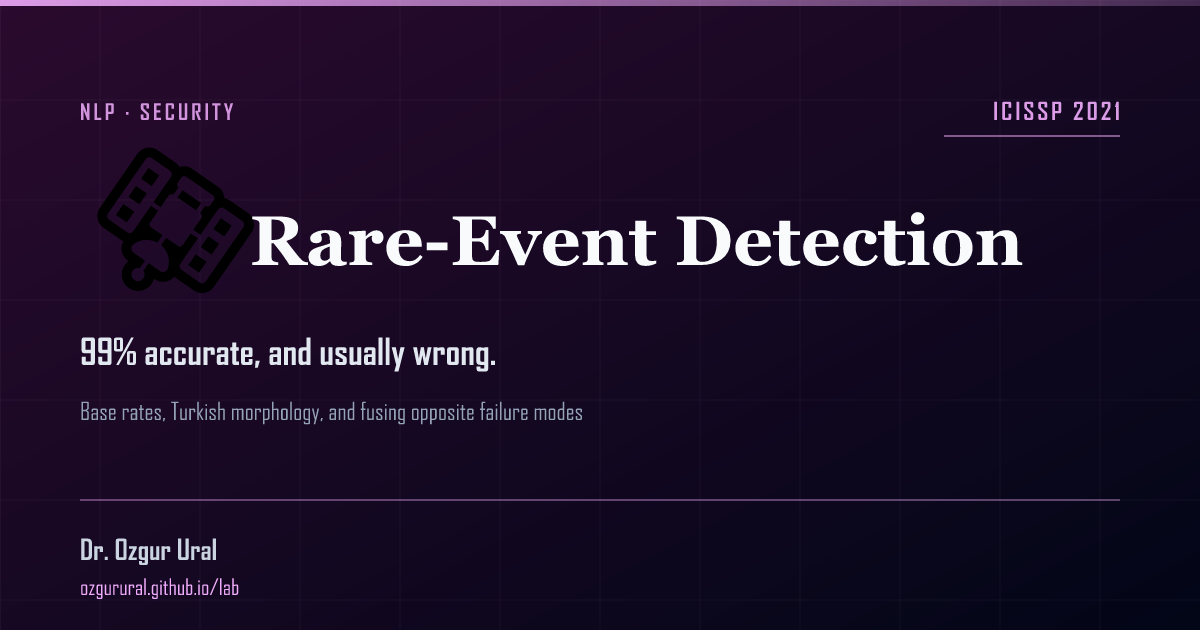
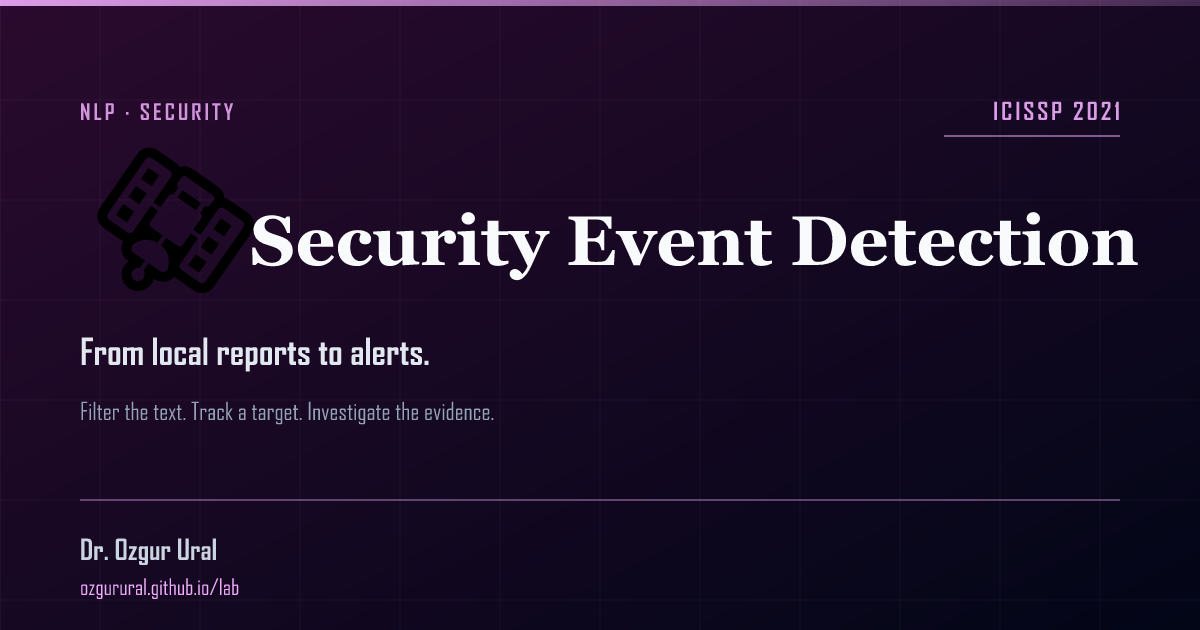
Present Turkish NLP research through its method and analyst use cases

Changed region(s): [[0.185, 0.3317, 0.9558, 0.4524], [0.0617, 0.5127, 0.4317, 0.6032], [0.0617, 0.6333, 0.4933, 0.6937]]

diff --git a/scripts/build-lab-og.js b/scripts/build-lab-og.js
@@ -141,9 +141,9 @@ const LABS = [
     key: "cyb",
     eyebrow: "NLP · Security",
     icon: "🛰",
-    title: "Rare-Event Detection",
-    sub: "99% accurate, and usually wrong.",
-    tagline: "Base rates, Turkish morphology, and fusing opposite failure modes",
+    title: "Security Event Detection",
+    sub: "From local reports to alerts.",
+    tagline: "Filter the text. Track a target. Investigate the evidence.",
     badge: "ICISSP 2021",
     bg: "#2a0a2e",
     accent: "#f0abfc",

diff --git a/_pages/lab-cyberevent.md b/_pages/lab-cyberevent.md
@@ -1,10 +1,10 @@
 ---
 permalink: /lab/cyber-events/
 oembed: "/lab/cyber-events/oembed.json"
-title: "Detecting Cyber-Security Events in Turkish Social Media"
-seo_title: "Cyber-Security Event Detection, animated"
-description: "Detecting cyber-security events with no labelled corpus: a keyword vector learned from the nic.tr attack, Turkish morphology, and anomalies per entity."
-excerpt: "No labelled corpus, so a known incident becomes the training set. Sensitivity and certainty pull against each other, and the scoreboard is published in full: 29 detections, 22 real, 7 false."
+title: "From Local Reports to Security Alerts"
+seo_title: "Security Event Detection from Local-Language Reports"
+description: "Turn Turkish posts and news into an investigation queue: learn relevant terms, normalise the language and flag unusual attention around a target."
+excerpt: "An interpretable workflow for security analysts: find relevant local-language reports, track unusual activity around named targets and review the evidence behind each alert."
 sitemap: true
 header:
   og_image: "lab-og/og-cyber-events-film.jpg"
@@ -21,44 +21,40 @@ header:
     </div>
 
   <div class="lab-lvd">
-  <p class="lab-card__lead">🛰 Security incidents surface publicly before they surface officially: someone posts that a service is unreachable long before a statement is issued. Detecting that in Turkish meant building the system without the thing everyone else starts from: a labelled corpus. This animation follows the actual construction: learning the keyword vocabulary from an incident whose answer is already known (the nic.tr denial-of-service attack of December 2015), pruning it by A/B test on false positives, normalising an agglutinative language so the evidence survives, and detecting events as an <strong>anomaly in how often a named entity is mentioned</strong> rather than as a classifier verdict.</p>
-  <div class="lab-card__usecase">
-    <strong>Scientific Reference:</strong>
-    <span>The author's <a href="/publication/AutomaticDetectionCyberSecurity">"Automatic Detection of Cyber Security Events from Turkish Twitter Stream and Newspaper Data"</a> (Ural &amp; Acartürk, ICISSP 2021, pp. 66–76), extending the <a href="/publication/2019-metu-masters-thesis">M.Sc. thesis</a> completed at METU under <a href="https://acarturk.net/">Prof. Cengiz Acartürk</a>. The study used Turkish Twitter and the Hürriyet newspaper API, with normalisation through the <a href="https://tools.nlp.itu.edu.tr/">ITU NLP web service</a> (<a href="https://doi.org/10.3115/v1/E14-2001">Eryiğit, 2014</a>). Corpus sizes and detection totals are reported results; the panels in the film are illustrations of the method, not the original time-series data.</span>
-  </div>
-  <p class="lab-film__alt">Prefer the technical version? <a href="{{ '/lab/cyber-events/embed/' | relative_url }}" target="_blank" rel="noopener">Watch the original animation</a>: the same idea step by step, with its diagrams and formulas.</p>
-  <aside class="lab-lvd__facts" aria-label="Key numbers">
-    <p class="lab-lvd__facts-title">Key numbers</p>
+  <p class="lab-card__lead">A service becomes unreachable. Local users start posting about it, and a news report adds context. Which reports should a security analyst investigate? This workflow turns a stream of Turkish posts and news into <strong>a queue of possible incidents, with source reports to check</strong>.</p>
+  <p>From my <a href="/publication/2019-metu-masters-thesis">M.Sc. research at METU</a> with <a href="https://acarturk.net/">Prof. Cengiz Acartürk</a>, published at <a href="/publication/AutomaticDetectionCyberSecurity">ICISSP 2021</a>. The contribution is a working path from language-specific text processing to alerts for analyst review.</p>
+
+  <h2>Where this workflow could help</h2>
+  <p><strong>Local incident monitoring.</strong> Follow reports naming an organisation or service and flag unusual attention for investigation. An analyst can check whether people are describing an outage, an attack or an ordinary conversation.</p>
+  <p><strong>Threat-intelligence triage.</strong> Bring local-language news and user reports into the same review queue, including warnings about vulnerable applications. The source text gives an analyst evidence to follow up.</p>
+  <p><strong>Building a research corpus.</strong> Collect candidate security reports for later review and labelling. The vocabulary and target list can be adjusted to the investigation.</p>
+  <p>These are potential uses of the workflow. The published study evaluated a Turkish-language research prototype.</p>
+
+  <aside class="lab-lvd__facts" aria-label="From text to investigation">
+    <p class="lab-lvd__facts-title">From text to investigation</p>
     <dl>
-      <div><dt>0</dt><dd>Labelled Turkish cyber-security datasets to start from.</dd></div>
-      <div><dt>2,310 · 28 · ~400</dt><dd>Tweets from the year before the nic.tr attack, the attack day and the fortnight after.</dd></div>
-      <div><dt>Day 1</dt><dd>The attack of 14 December 2015 was detected on its first day.</dd></div>
-      <div><dt>&lt; 30%</dt><dd>False-positive ceiling set in advance for the following two weeks, and met.</dd></div>
-      <div><dt>22 of 29</dt><dd>Real events among the detections in a sample run over 437 documents, about 76%.</dd></div>
+      <div><dt>Filter</dt><dd>Use a known incident to find relevant terms and test candidate keywords.</dd></div>
+      <div><dt>Normalise</dt><dd>Bring Turkish word forms into a form the detector can match.</dd></div>
+      <div><dt>Track</dt><dd>Compare mentions of each named target with its own history.</dd></div>
+      <div><dt>Investigate</dt><dd>Review the reports behind an alert before treating it as an incident.</dd></div>
     </dl>
   </aside>
   </div>
 
-  <details class="lab-reveal" open>
-    <summary>🧠 What did you just learn?</summary>
-    <p><strong>No labelled corpus, so the incident becomes the training set.</strong> There is no annotated Turkish cyber-security dataset to learn from. The way around it is to pick an incident whose answer is already known: the nic.tr denial-of-service attack of 14 December 2015, and pull three corpora around it: 2,310 tweets from the quiet year before, 28 from the attack day itself, and roughly 400 from the fortnight after. TF-IDF across those tells you which terms genuinely separate an attack from ordinary Turkish.</p>
-    <p><strong>Every candidate keyword is then A/B tested on false positives.</strong> A term enters the vector only if it raises detections without flooding the analyst's queue. That is the correct thing to optimise here: in a rare-event problem the false-positive term is multiplied by an enormous negative class, so it, not recall, is what decides whether anyone keeps using the tool.</p>
-    <p><strong>The vector is squeezed from both sides.</strong> Too many keywords and the system ingests more documents than it can process while false positives climb, so <em>certainty</em> falls. Too few and events are missed, or noticed days late instead of on the attack day, so <em>sensitivity</em> falls. No setting maximises both, which is why the paper pins both down as acceptance criteria in advance: detect nic.tr on the day, and stay under 30% false positives over the following two weeks. Both were met.</p>
-    <p><strong>Turkish decides how much evidence survives preprocessing.</strong> The language is agglutinative: meaning is built by stacking suffixes, so one stem yields a combinatorial family of surface forms that keyword matching sees as unrelated tokens. Every document is normalised through the ITU NLP web service before keyword and event detection. In this system, preprocessing is part of the detector rather than cleanup around a classifier.</p>
-    <p><strong>Detection is an anomaly, not a verdict.</strong> A named-entity vector lists what can be attacked (institutions, government organisations, countries) and each entity's daily mention count is compared against a threshold derived from its own history. On 14 December 2015, the first day of the attack, the tweets naming nic.tr were enough to cross its threshold, and the attack was detected that day. No classifier is asked whether that constitutes an attack; the deviation is the signal.</p>
-    <p><strong>And the scoreboard is published, not rounded away.</strong> A sample run over 437 documents (186 tweets and 251 Hürriyet articles) produced 29 detections: 22 real and 7 false, about 76% success. The paper prints its failure mode too: the keyword "hacklendi" firing on an everyday message asking whether someone's account was compromised, which describes no event at all. Reporting the false positives alongside the hits is what makes the number worth anything.</p>
+  <details class="lab-reveal">
+    <summary>How the method works</summary>
+    <p><strong>Start from a known incident.</strong> The study began without an annotated Turkish cyber-security corpus. It compared text from before, during and after the nic.tr denial-of-service attack. TF-IDF helped identify candidate terms; keyword tests checked whether adding a term found useful reports without introducing excessive false alarms.</p>
+    <p><strong>Make the language matchable.</strong> Turkish builds many word forms through suffixes. Normalising the text through the ITU NLP service lets the detector match forms that would otherwise appear unrelated.</p>
+    <p><strong>Look for a change around a target.</strong> In the filtered text, count daily mentions of a predefined organisation, institution or country. Compare each target with a threshold derived from its own history. This makes the alert traceable to the target, the time period and the reports behind it.</p>
+    <p><strong>Keep the analyst in the loop.</strong> A message asking whether an account was hacked can contain a security keyword without reporting an incident. An alert starts an investigation; source checking determines what happened.</p>
   </details>
 
   <details class="lab-reveal">
-    <summary>📐 The math, precisely</summary>
-    <div class="lab-math" data-role="cyb-appendix">
-      <p>Rendered on load. If equations appear as raw text, your browser blocked the math font CDN.</p>
-    </div>
+    <summary>Study scope, limitations and sources</summary>
+    <p>The study used historical Turkish Twitter and Hürriyet newspaper data. Its evaluation included confirmed incidents and false alerts, but did not establish how many events were missed. Applying the workflow to another language, source or time period requires fresh evaluation of vocabulary, normalisation and alert thresholds.</p>
+    <p>The film illustrates the workflow and reports the original experiment. It is not a comparison against current language models or evidence of a deployed monitoring service. The paper contains the full experimental counts and evaluation criteria.</p>
+    <p><a href="https://doi.org/10.5220/0010201600660076">Read the ICISSP paper</a> by Ural and Acartürk, extending the METU M.Sc. thesis. The text processing uses the <a href="https://tools.nlp.itu.edu.tr/">ITU NLP service</a> (<a href="https://doi.org/10.3115/v1/E14-2001">Eryiğit, 2014</a>).</p>
   </details>
+  <p class="lab-film__alt"><a href="{{ '/lab/cyber-events/embed/' | relative_url }}" target="_blank" rel="noopener">Explore the original technical animation</a> for the diagrams and formulas behind the workflow.</p>
   </div>
 </section>
-
-<link rel="stylesheet" href="https://cdn.jsdelivr.net/npm/katex@0.16.11/dist/katex.min.css" integrity="sha384-nB0miv6/jRmo5UMMR1wu3Gz6NLsoTkbqJghGIsx//Rlm+ZU03BU6SQNC66uf4l5+" crossorigin="anonymous">
-<script defer src="https://cdn.jsdelivr.net/npm/katex@0.16.11/dist/katex.min.js" integrity="sha384-7zkQWkzuo3B5mTepMUcHkMB5jZaolc2xDwL6VFqjFALcbeS9Ggm/Yr2r3Dy4lfFg" crossorigin="anonymous"></script>
-<script defer src="{{ '/assets/js/lab-anim.js' | relative_url }}?v={{ site.time | date: '%s' }}"></script>
-<script defer src="{{ '/assets/js/lab-films/cyberevent.js' | relative_url }}?v={{ site.time | date: '%s' }}"></script>

diff --git a/_publications/2021-01-01-icissp.md b/_publications/2021-01-01-icissp.md
@@ -1,9 +1,9 @@
 ---
 title: "Automatic Detection of Cyber Security Events from Turkish Twitter Stream and Newspaper Data"
-seo_title: "Automatic Cyber Security Event Detection, ICISSP 2021"
+seo_title: "Turkish Security Event Detection | ICISSP 2021"
 collection: publications
 permalink: /publication/AutomaticDetectionCyberSecurity
-excerpt: 'Detecting cyber-security events in Turkish posts and news through keyword filtering, text normalisation and anomalies in daily entity mentions.'
+excerpt: 'A workflow for turning Turkish posts and news into alerts for analyst review: select relevant terms, normalise the language and track unusual activity around named targets.'
 date: 2021-01-01
 venue: 'Proceedings of the 7th International Conference on Information Systems Security and Privacy (ICISSP)'
 paperurl: 'https://doi.org/10.5220/0010201600660076'
@@ -22,24 +22,29 @@ author_list:
   - { given: "Ozgur", family: "Ural", orcid: "0000-0003-1329-4303" }
   - { given: "Cengiz", family: "Acartürk" }
 ---
-Cyber-security incidents surface publicly before they surface officially: someone posts that a service is unreachable long before a statement is issued. This paper builds a detector for that signal in Turkish, and the interesting difficulty is not the classifier. Co-authored with [Prof. Cengiz Acartürk](https://acarturk.net/), my M.Sc. thesis advisor at Middle East Technical University.
+Security analysts need a way to decide which local-language reports deserve investigation. This paper develops a Turkish-language prototype that filters posts and news, tracks unusual attention around named targets and raises possible incidents for review. Co-authored with [Prof. Cengiz Acartürk](https://acarturk.net/), my M.Sc. thesis advisor at Middle East Technical University, and published at ICISSP 2021.
 
-## Learning a vocabulary with no labelled corpus
+## From text to an investigation queue
 
-There is no annotated Turkish security corpus to train on, so the keyword vector is learned from an incident whose answer is already known: the nic.tr denial-of-service attack of 14 December 2015. TF-IDF across three corpora, the quiet year before, the day itself, and the fortnight after, shows which terms actually separate an attack from ordinary Turkish. Each candidate keyword is then kept only if it finds more real events without flooding the queue with false ones.
+The method connects language processing to event detection through a sequence an analyst can inspect:
 
-## The low-resource penalty
+1. **Find relevant terms.** Starting without an annotated Turkish security corpus, compare reports from before, during and after a known incident. TF-IDF helps identify candidate keywords; tests check the useful reports and false alarms each term introduces.
+2. **Normalise the language.** Process Turkish word forms through the ITU NLP service so suffixes and surface variations do not prevent matching.
+3. **Track a target over time.** Count mentions of predefined organisations, institutions and countries in the filtered text. Compare each target with a threshold derived from its own history.
+4. **Review the evidence.** An unusual count raises an alert. An analyst checks the underlying reports to decide whether they describe an incident.
 
-Turkish is agglutinative: meaning is built by stacking suffixes onto a stem, so a single root generates dozens of legal surface forms. To a bag-of-words model those look like unrelated tokens, the vocabulary inflates, and the evidence per column becomes too thin for TF-IDF to weigh. A larger classifier does not fix this. Normalising surface forms back onto their stems does, which is the part practitioners tend to under-report: in a morphologically rich language without a large annotated corpus, preprocessing decides more of the result than the model choice does.
+## Where the workflow could help
 
-## Detection by anomaly, not by sentiment
+**Local incident monitoring:** organise reports about a service or institution into a queue for investigation. **Threat-intelligence triage:** surface local-language news and user reports, including vulnerability warnings. **Research data collection:** gather candidate security documents for subsequent review and labelling.
 
-The system counts mentions of predefined possible targets, such as institutions, government bodies and countries, in the filtered and normalised texts. Each target is compared with a threshold derived from its own history. The nic.tr attack was detected on its first day, 14 December 2015. The paper reports 28 tweets collected for that day and successful detection. An anomalous count raises a potential event for an analyst to investigate.
+These are potential uses of the workflow. The publication evaluates a research prototype using historical Turkish Twitter and newspaper data; it does not establish production performance in other settings.
 
-## Results, stated rather than rounded
-
-Over a sample of 437 documents the system produced 29 detections, 22 of them real: about a 76% success rate. The seven false positives are published alongside, including the case of an everyday message using the word *hacklendi* to ask whether an account had been compromised. Judging that automatically is genuinely hard, and the paper says so.
+<details>
+<summary>Study scope and evaluation</summary>
+<p>The evaluation included confirmed incidents and false alerts. It did not establish how many events were missed. A conversational message containing a security term can still trigger an alert without describing an incident, which is why source review remains part of the workflow.</p>
+<p>Applying the approach to another source, language or time period requires fresh evaluation of the vocabulary, text processing and alert thresholds. The paper reports the full experimental counts and acceptance criteria.</p>
+</details>
 
 There is an [animated explainer](/lab/cyber-events/) of this work in the Research Lab, and the underlying [M.Sc. thesis](/publication/2019-metu-masters-thesis) is also available.
 
-[Download paper here](https://doi.org/10.5220/0010201600660076)
+[Read the paper and its experimental evaluation](https://doi.org/10.5220/0010201600660076)

diff --git a/scripts/cyber-events-review-2026-10-22.md b/scripts/cyber-events-review-2026-10-22.md
@@ -58,3 +58,26 @@ Native exports and caption files are local artifacts in `dist/video/`. The
 export job uses lossless PNG capture, a medium H.264 preset at CRF 17, and a
 separate parts directory keyed by the film, timeline and layout bytes so this
 review cannot reuse earlier pictures of the same duration.
+
+## Website positioning, 23 October 2026
+
+The lab page, lab index card and publication summary now lead with the method
+and its possible uses: local incident monitoring, threat-intelligence triage
+and collecting candidate reports for research. The former numbers rail is a
+four-step workflow: filter, normalise, track and investigate. Experimental
+totals and success-rate headlines are omitted from these page summaries; the
+paper remains the source for the full evaluation.
+
+The historical research-prototype scope, false-alert limitation and lack of
+an established missed-event count remain explicit. Possible uses are labelled
+as such. No new model, deployment or contemporary benchmark result is claimed.
+The original films and their experimental narration retain their source data.
+The lab page links to the technical animation instead of also loading its
+legacy engine and mathematical appendix. The fallback share-card text is
+updated to describe the workflow rather than an unrelated accuracy example.
+
+Verification: safe production and isolated local builds, Liquid check, site
+audits of the lab page, publication page and lab index, nine-width layout
+checks, and desktop/mobile screenshots passed. Icon coverage passed across
+78 pages. The external-link crawl found 172 reachable links, no confirmed dead
+links and 40 unverified responses (request refusals, timeouts or fetch failures).

diff --git a/_pages/lab.md b/_pages/lab.md
@@ -45,8 +45,8 @@ header:
   </a>
   <a class="lab-mission-card" href="/lab/cyber-events/">
     <span class="lab-mission-card__code">05</span>
-    <strong>Rare-Event Detection</strong>
-    <span>Why a 99%-accurate detector is wrong most times it speaks, and what an agglutinative language does to your features. <em>ICISSP 2021.</em></span>
+    <strong>Security Event Detection</strong>
+    <span>Turn local-language posts and news into an investigation queue: filter the text, track unusual attention around a target and review the evidence. <em>ICISSP 2021.</em></span>
   </a>
 </nav>
 

diff --git a/_pages/film-cyber-events.md b/_pages/film-cyber-events.md
@@ -2,7 +2,7 @@
 layout: cinema
 permalink: /films/cyber-events/
 title: "Hearing an attack in the noise"
-description: "A website goes down, and people post about it before any statement. A narrated film on detecting cyber security events from Turkish posts and news without a labelled data set (Ural & Acarturk, ICISSP 2021)."
+description: "From Turkish posts and news to alerts for analyst review: a film on keyword selection, language normalisation and unusual activity around named targets (Ural & Acarturk, ICISSP 2021)."
 film_module: cyber-events
 noindex: true
 sitemap: false
